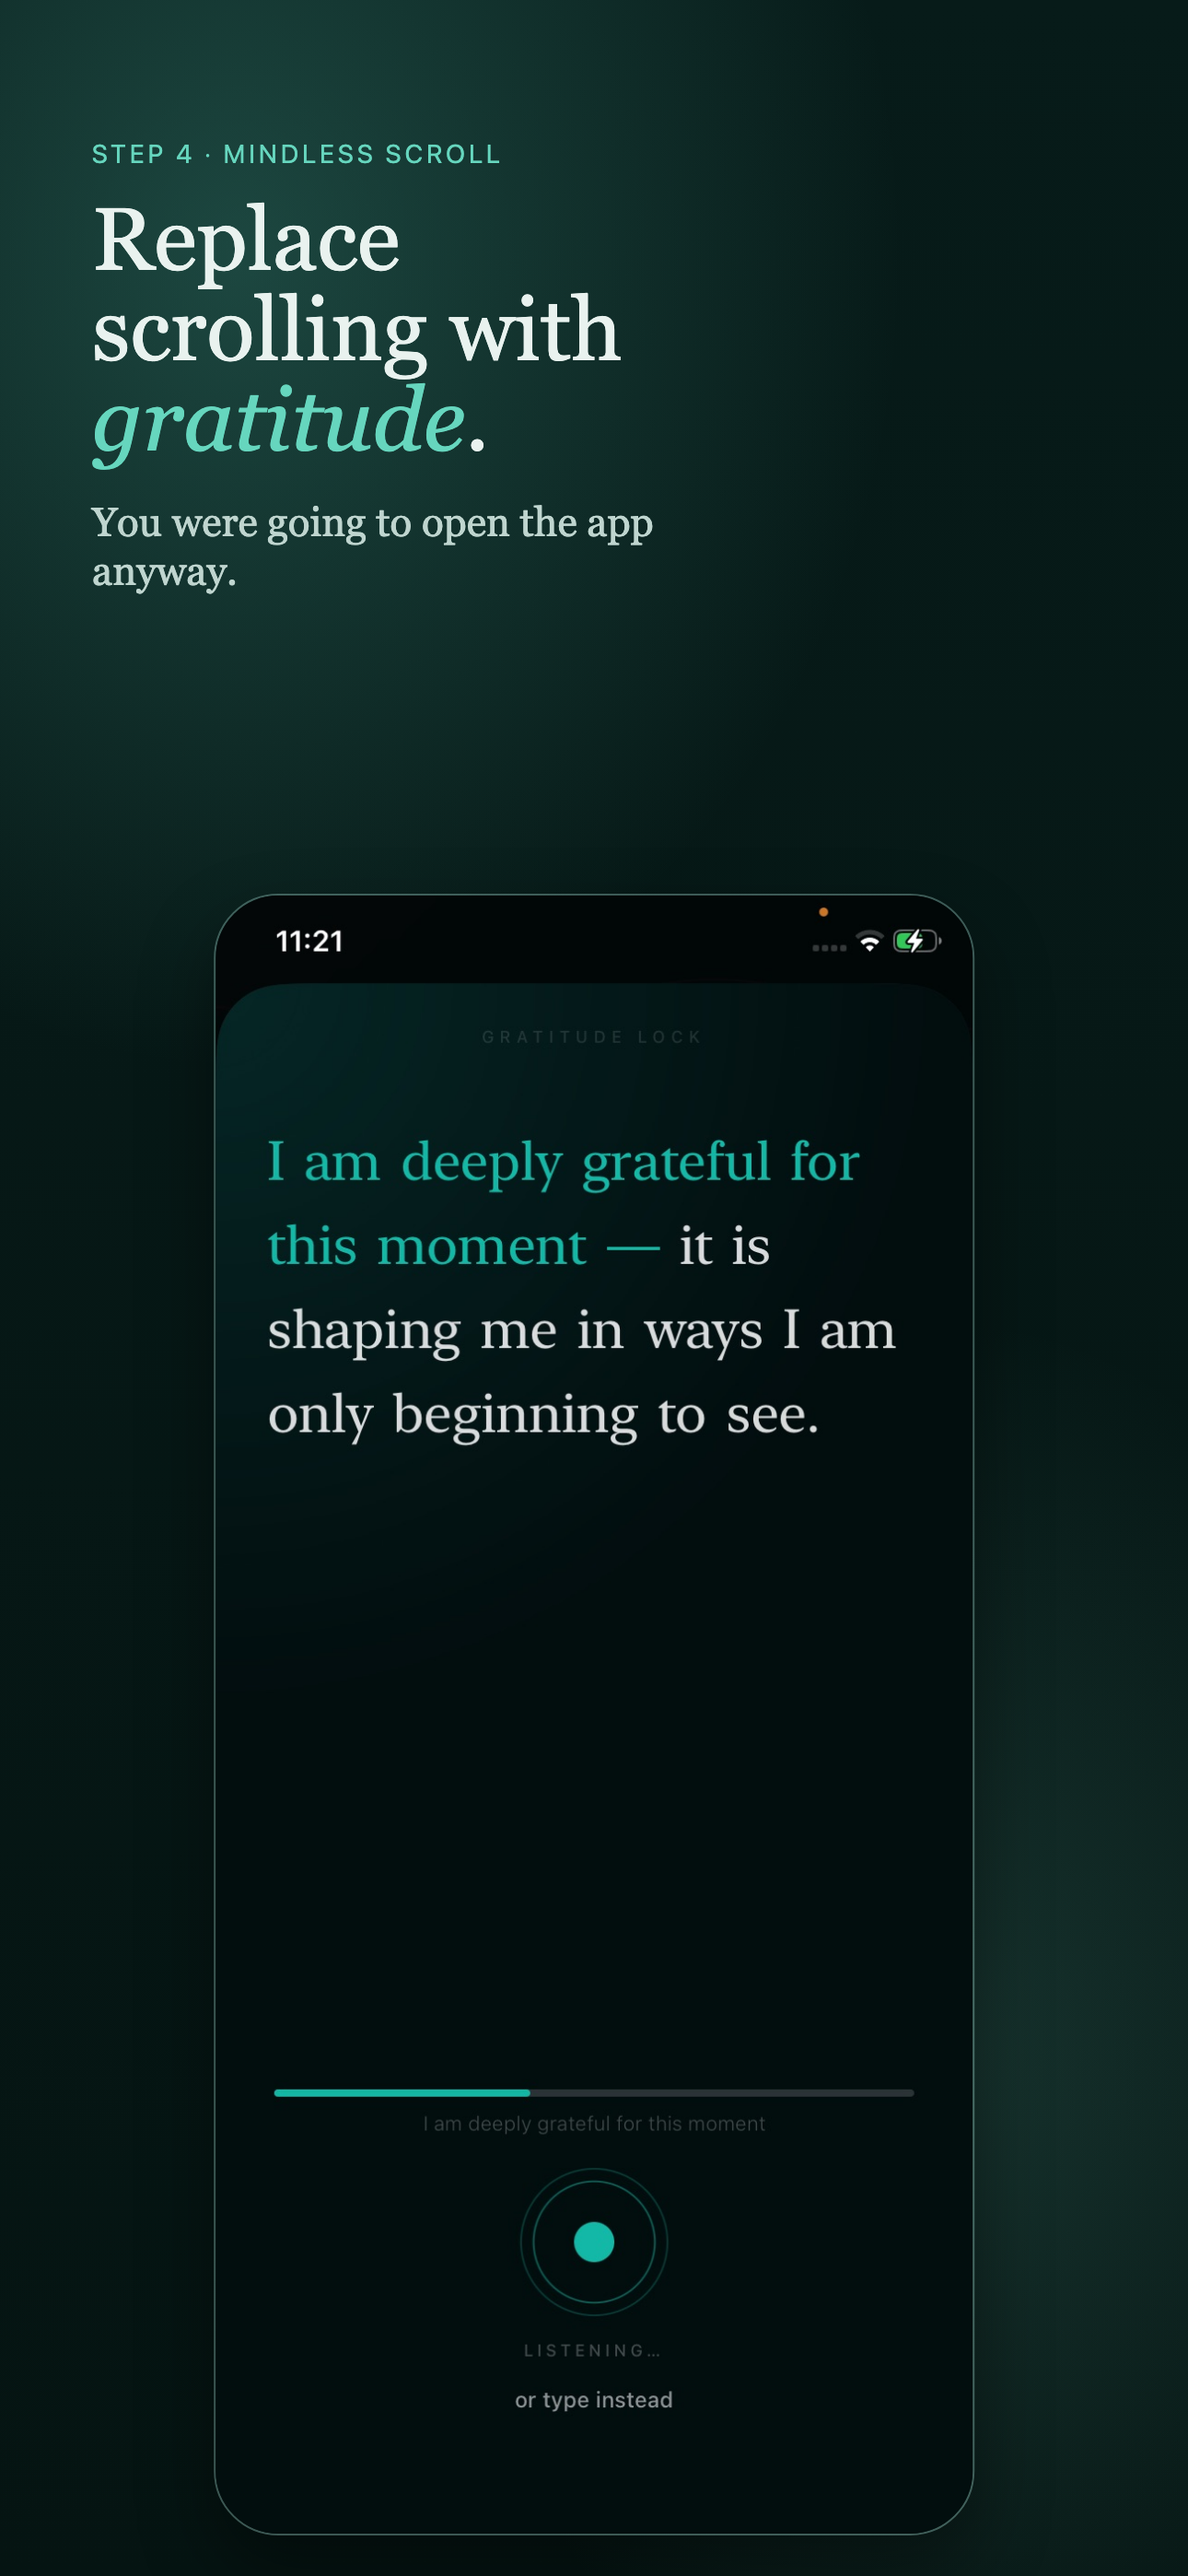
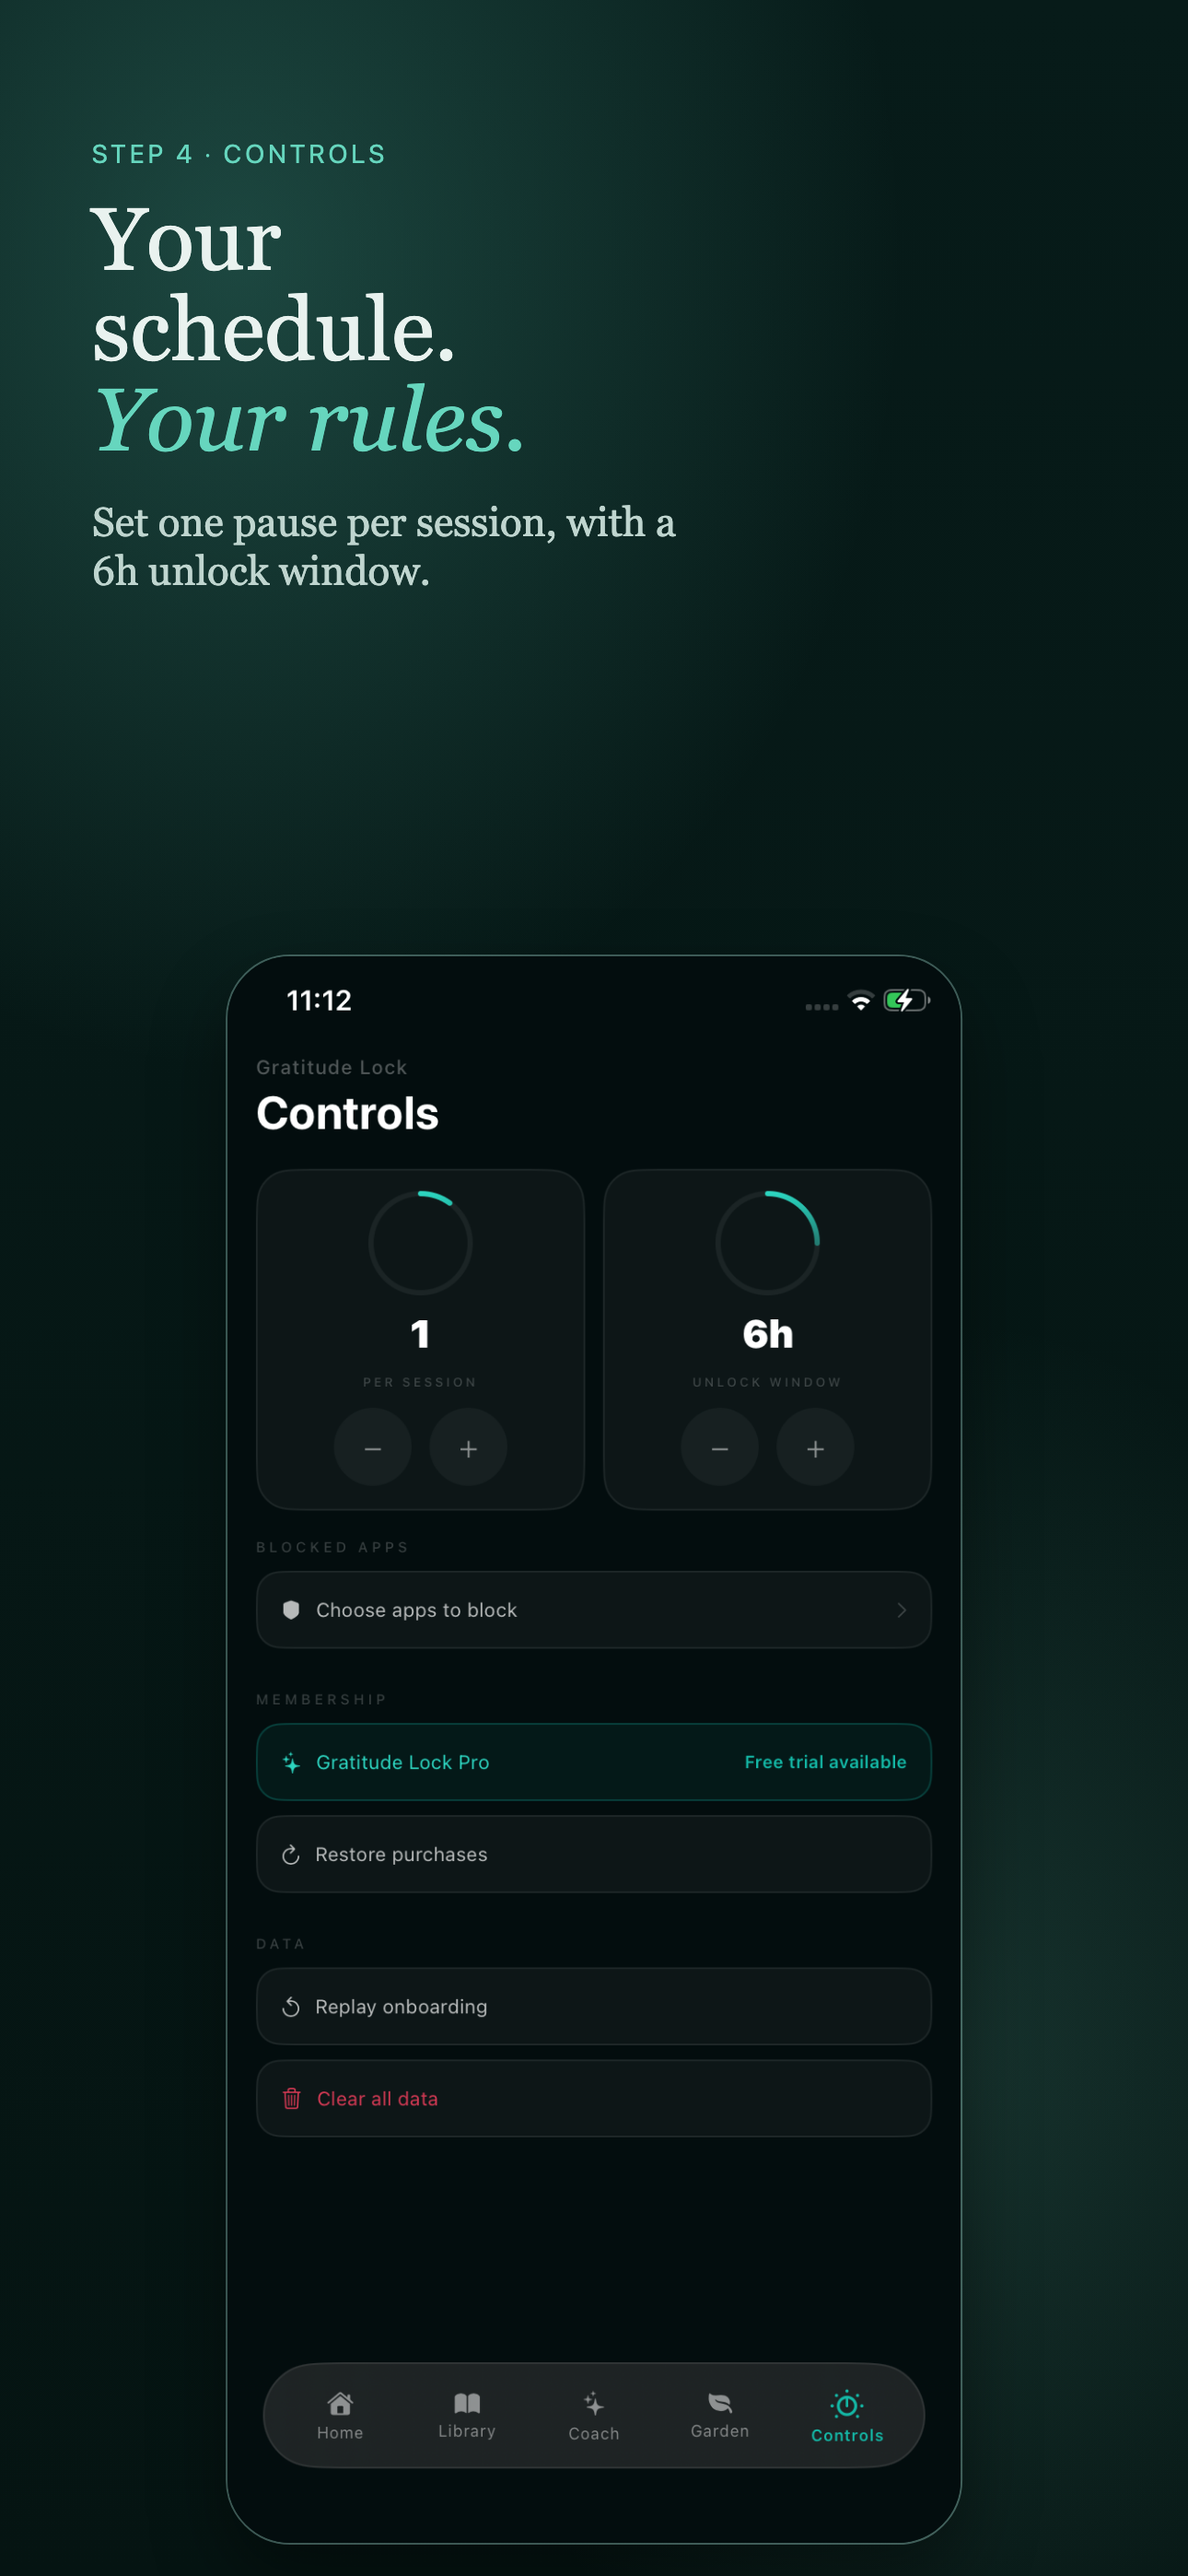
Update ASC step-4 screenshot to use real Controls capture.

diff --git a/marketing/appstore/build-assets.py b/marketing/appstore/build-assets.py
@@ -47,7 +47,8 @@ def build_screenshot(
     phone_width: int = 72,
     phone_bottom: int = 80,
 ) -> Path:
-    shot = (ROOT / "img" / shot_file).resolve()
+    shot_path = Path(shot_file)
+    shot = shot_path if shot_path.is_absolute() else (ROOT / "img" / shot_file).resolve()
     out_dir = ROOT / "marketing" / "appstore" / "out"
     out_dir.mkdir(parents=True, exist_ok=True)
     out_file = out_dir / out_name
@@ -150,13 +151,13 @@ SHOTS = [
         "out": "03-library.png",
     },
     {
-        "file": "landing-02.jpg",
-        "kicker": "Step 4 · Mindless Scroll",
-        "headline": "Replace scrolling with <em>gratitude</em>.",
-        "sub": "You were going to open the app anyway.",
+        "file": "/Users/vaibhav/workspace/brain/captures/gratitude-2026-08-18/asc/asc-4.png",
+        "kicker": "Step 4 · Controls",
+        "headline": "Your schedule. <em>Your rules.</em>",
+        "sub": "Set one pause per session, with a 6h unlock window.",
         "out": "04-mindless-scroll.png",
-        "phone_width": 64,
-        "phone_bottom": 44,
+        "phone_width": 62,
+        "phone_bottom": 34,
     },
     {
         "file": "landing-01.jpg",
